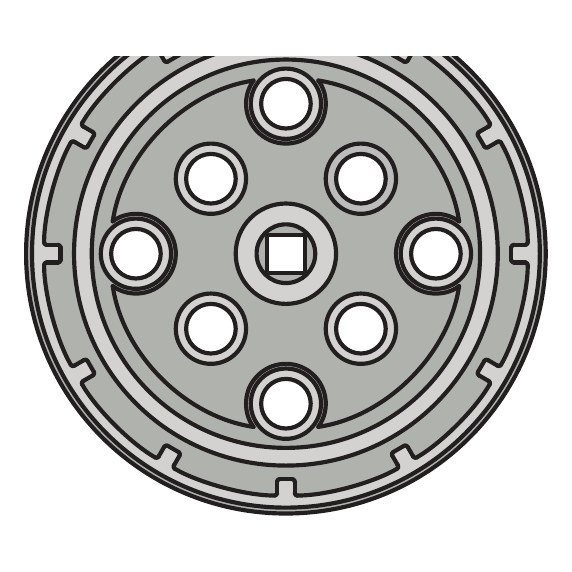
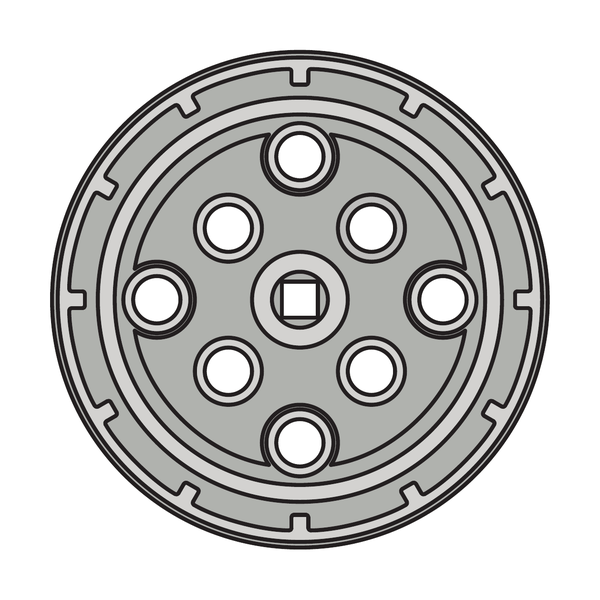
Add field, flight case, stopwatch; fix images; washer aka "VEX gold"
COMP-014 field, COMP-015 flight case, COMP-016 stopwatch (for timing
practice drills), with product photos.
Images: sheet pin, hub, cam and cam follower re-cropped from the kit
poster with margins; arrow added to Smart Port; new VEXcode IQ
screenshot; referee and Teamwork Challenge replaced with VEX Worlds
photos. Washer gets aka "VEX gold".

diff --git a/images/CREDITS.md b/images/CREDITS.md
@@ -5,18 +5,23 @@ Images © VEX Robotics / Innovation First, Inc., used for non-commercial classro
 | IDs | Source |
 |---|---|
 | BLD images except those below | Cropped from the [VEX IQ Competition Kit poster (PDF)](https://content.vexrobotics.com/vexpro/pdf/IQ-Competition-Kit-111521.pdf) |
-| BLD-010, BLD-046, pneumatics (BLD-067 – BLD-073), BLD-074 | Product photos from [vexstore.cn](https://www.vexstore.cn/iq?vex_classroom=IQ) |
+| BLD-010 (arrow added), BLD-046, pneumatics (BLD-067 – BLD-073), BLD-074 | Product photos from [vexstore.cn](https://www.vexstore.cn/iq?vex_classroom=IQ) |
 | BLD-001 – BLD-005 | Diagrams drawn by `tools/diagrams.py` (edit the script and re-run to change them) |
 | CODE-041, CODE-074, CODE-089, CODE-095, CODE-096, CODE-098 – CODE-100, CODE-102 – CODE-104 | Drawn by `tools/diagrams.py` (CODE-041 combines the BLD sensor images) |
-| CODE-001, 003, 004, 011, 013, 053 – 055, 061, 094, 106 | Screenshots from VEX Library articles (VEXcode IQ toolbar, Devices menu, Print Console, AI Vision Utility, error prompt) |
+| CODE-003, 004, 011, 013, 053 – 055, 061, 094, 106 | Screenshots from VEX Library articles (VEXcode IQ toolbar, Devices menu, Print Console, AI Vision Utility, error prompt) |
 | CODE-107 | VEXcode IQ screenshot (Slot picker), taken by the teacher |
+| CODE-001 | VEXcode IQ screenshot (example project with the Devices menu), supplied by the teacher |
 | ENG-001, 003, 004, 006, 007, 008, 015 – 017, 021, 024, 028, 031, 036, 040, 042, 049 – 051, 062 – 064 | VEX Library articles: Selecting a VEX IQ Drivetrain, Selecting a VEX IQ Assembly, Building VEX IQ Robot Arms, Using VEX IQ Plastic Gears, Chain & Sprockets, and Pulleys, Building with VEX IQ Motor Groups, and the Hero Bot articles (Huey, Swish). Black/green backgrounds replaced with white. |
 | ENG-012 – 014, 030, 032, 035, 058, 061, 065, 066 | VEX IQ (2nd gen) STEM Lab Lesson Summaries (Robot Soccer, Up and Over, Cube Collector, Castle Crasher) |
 | ENG diagrams (the other 40 ENG images) | Drawn by `tools/diagrams.py` |
 | EDP-001, EDP-006 | VEX Library: Get Started Engineering (design process graphic) and Getting Started with Engineering Notebooks (sample page). Black background replaced with white. |
 | EDP-004 | VEX IQ STEM Lab Lesson Summary: Up and Over, Claw Design |
-| EDP-008 – 012, COMP-002, COMP-007, COMP-009 | VEX IQ STEM Lab: Competition 101 (VEX IQ Level Up), Sessions 2, 3 and 6 — Flop Hero Bot, field route, notebook, rubric, judges, sizing tool, event photos |
+| EDP-008 – 012, COMP-002 | VEX IQ STEM Lab: Competition 101 (VEX IQ Level Up), Sessions 2, 3 and 6 — Flop Hero Bot, field route, notebook, rubric, judges, sizing tool, event photos |
 | the other EDP and COMP images | Drawn by `tools/diagrams.py` |
+| COMP-007, COMP-009 | VEX Worlds event photos (referee; Teamwork Challenge drive teams), supplied by the teacher |
+| COMP-014 | VEX IQ Challenge Field product photo (VEX Robotics) |
+| COMP-015 | Flight case product photo from RoboSource.net (caption and banner cropped out) |
+| COMP-016 | Fastime stopwatch product photo |
 | BLD-076 | [VEX Library: Understanding Inertial Sensor Data from the VEX IQ (2nd gen) Brain](https://kb.vex.com/hc/en-us/articles/4409666542100-Understanding-Inertial-Sensor-Data-from-the-VEX-IQ-2nd-gen-Brain) |
 
 Own photos may replace these later; keep the same `<ID>.png` filename.

diff --git a/PLAN.md b/PLAN.md
@@ -1,6 +1,6 @@
 # VEX IQ Vocab — Project Plan
 
-Status: **seeding** — Building (77), Coding (107) and Engineering (72) drafted, plus a first set of EDP (12) and COMP (13) terms; all `status=draft`. SEASON and sentence frames to come. Live app: https://insufficientdoubt.github.io/vex-iq-vocab/
+Status: **seeding** — Building (77), Coding (107) and Engineering (72) drafted, plus a first set of EDP (12) and COMP (16) terms; all `status=draft`. SEASON and sentence frames to come. Live app: https://insufficientdoubt.github.io/vex-iq-vocab/
 
 This file records decisions, the spec, and how the work was done (§12). Update it when a decision changes. **New AI session? Read §12 first.**
 
